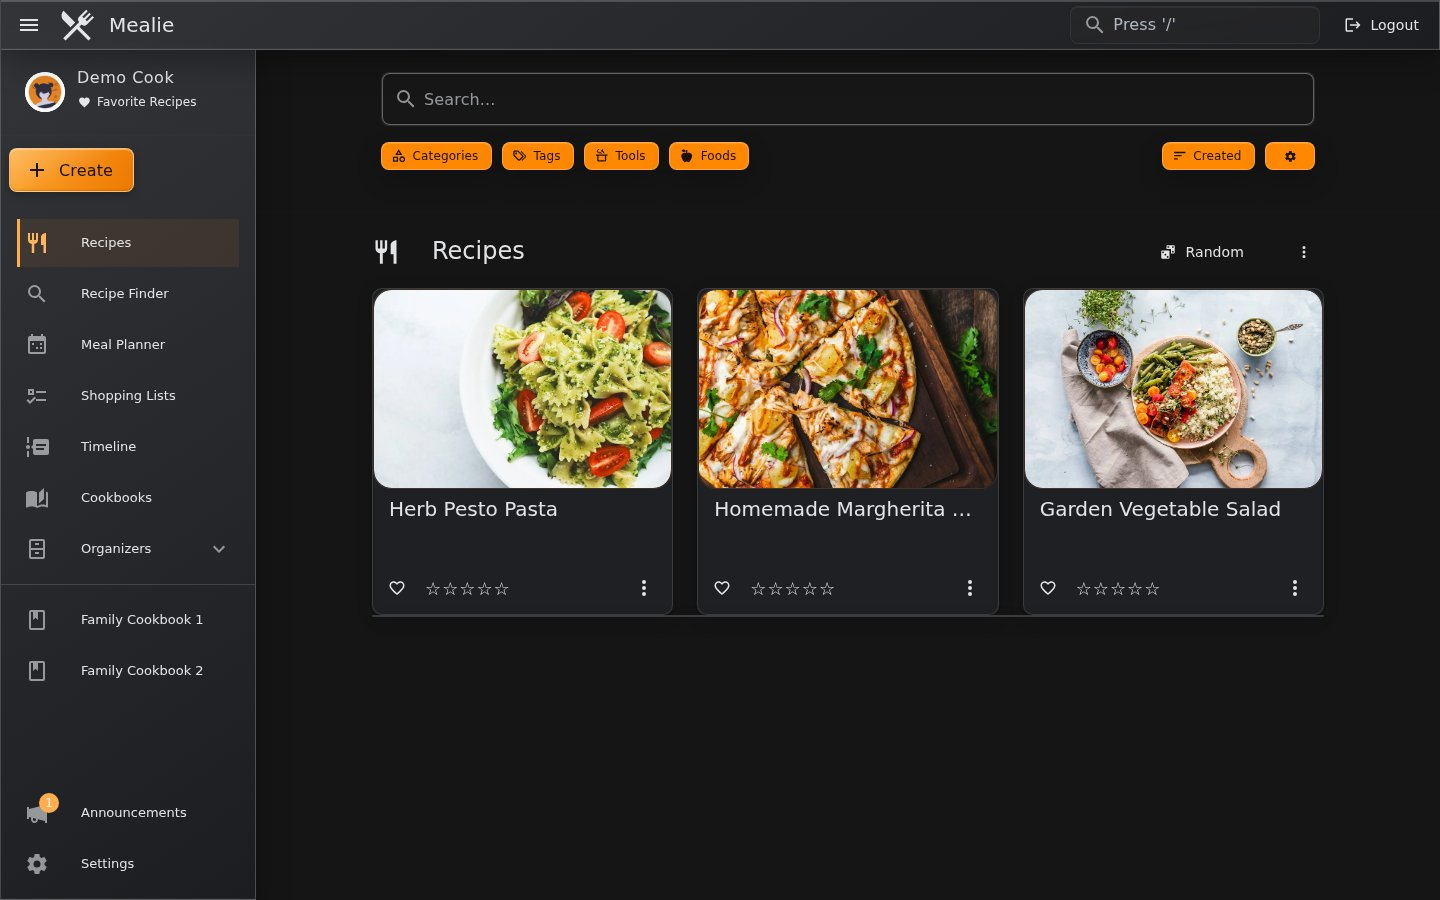
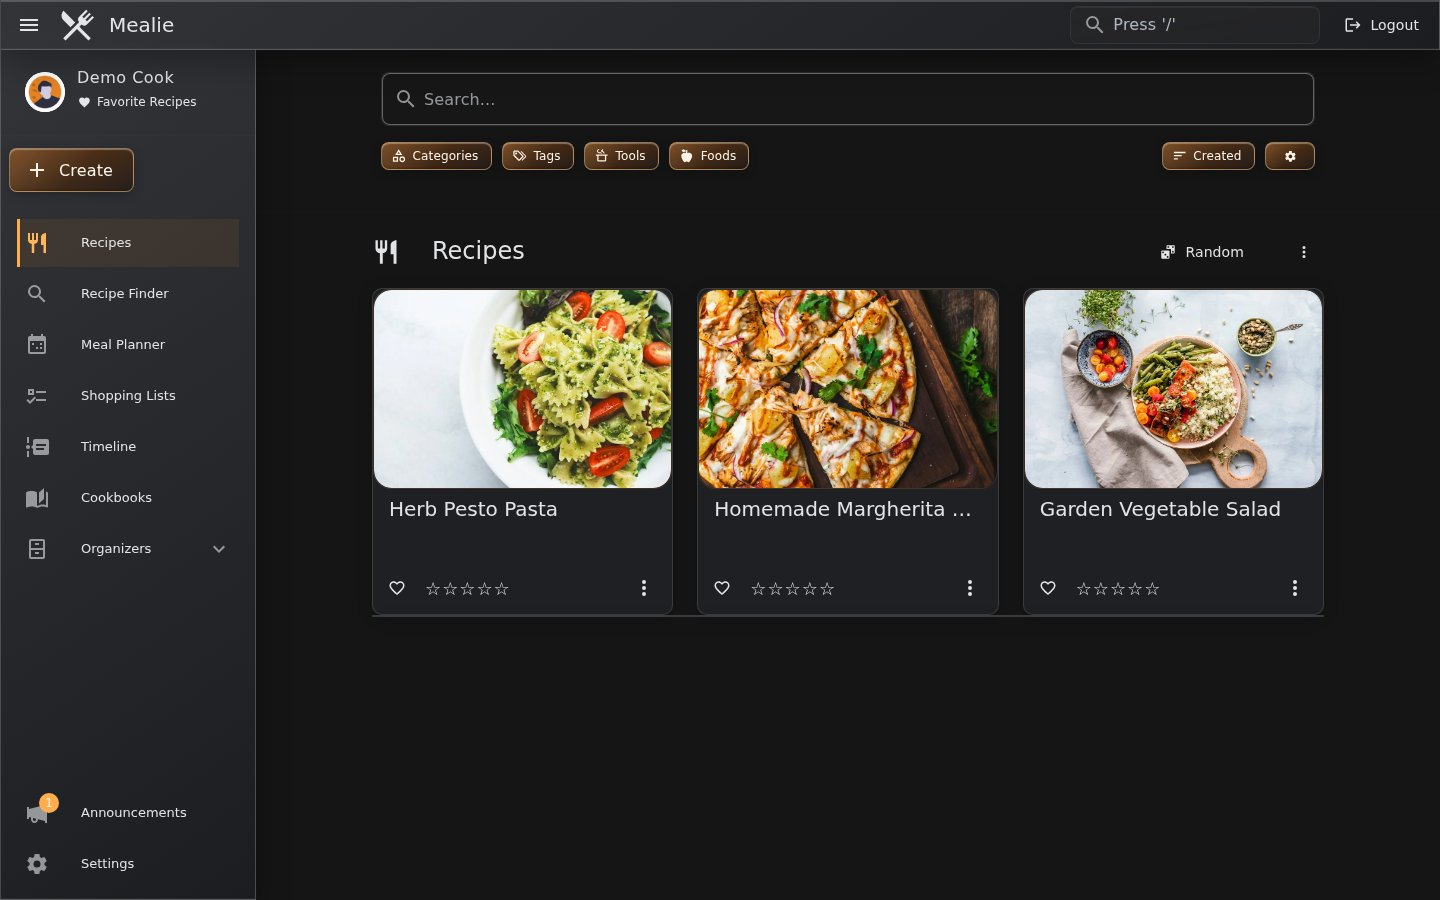
Unify glass button treatments
- Match create, filter, finder and planner controls with amber glass
- Pair cook mode entry and exit with accessible red glass

diff --git a/liquid-glass.css b/liquid-glass.css
@@ -1821,44 +1821,76 @@ section:has(> .v-card.pb-2 + .v-row > .v-col > .v-card.left-border) > .v-row > .
   backdrop-filter: none !important;
   -webkit-backdrop-filter: none !important;
 }
-/* Glass is reserved for primary actions, not filters, tables, or icon buttons. */
+/* Shared glass material for actions; cook mode uses a red tint. */
 :root {
-  --primary-action-bg: linear-gradient(155deg, rgba(255, 255, 255, 0.25), transparent 55%), linear-gradient(115deg, #ffa630, #ed7900);
-  --primary-action-fg: #1a1108;
-  --primary-action-border: rgba(255, 218, 166, 0.65);
-  --primary-action-shadow: inset 0 1px 1px rgba(255, 255, 255, 0.42), inset 0 -1px 2px rgba(88, 37, 0, 0.22), 0 3px 9px rgba(0, 0, 0, 0.24);
-  --primary-action-pressed-shadow: inset 0 2px 4px rgba(88, 37, 0, 0.25), 0 1px 3px rgba(0, 0, 0, 0.20);
+  --primary-action-bg: #583721;
+  --primary-action-fg: #fff5e8;
+  --primary-action-border: rgba(255, 211, 155, 0.48);
+  --primary-action-blur: none;
+  --cook-action-bg: #5b262a;
+  --cook-action-border: rgba(255, 170, 165, 0.48);
+  --primary-action-shadow: inset 0 1px 1px rgba(255, 255, 255, 0.34), inset 0 -1px 2px rgba(0, 0, 0, 0.24), 0 3px 10px rgba(0, 0, 0, 0.22);
+  --primary-action-pressed-shadow: inset 0 2px 5px rgba(0, 0, 0, 0.30), 0 1px 3px rgba(0, 0, 0, 0.20);
+}
+@supports ((backdrop-filter: blur(1px)) or (-webkit-backdrop-filter: blur(1px))) {
+  :root {
+    --primary-action-bg: linear-gradient(135deg, rgba(255, 220, 175, 0.16), transparent 55%), linear-gradient(155deg, rgba(109, 57, 15, 0.90), rgba(37, 29, 26, 0.90));
+    --primary-action-blur: blur(8px) saturate(130%);
+    --cook-action-bg: linear-gradient(135deg, rgba(255, 205, 195, 0.16), transparent 55%), linear-gradient(155deg, rgba(112, 38, 42, 0.90), rgba(42, 25, 29, 0.90));
+  }
 }
 :is(
   .v-navigation-drawer__content > .v-btn.mt-3,
-  .v-main .v-btn:is(.bg-success, .bg-primary, [type="submit"].text-success, [type="submit"].text-primary):not([aria-haspopup]):not(:is(.v-table *, .v-data-table *, .v-list *, .v-btn-toggle *)),
-  .v-dialog .v-btn[type="submit"]:is(.text-success, .bg-success, .text-primary, .bg-primary),
-  .range-nav .v-btn.range-button
-):not(.v-btn--icon):not(.v-btn--disabled):not(:disabled) {
+  .v-main .v-btn:is(.bg-success, .bg-primary, [type="submit"].text-success, [type="submit"].text-primary):not(.v-btn--icon):not([aria-haspopup]):not(:is(.v-table *, .v-data-table *, .v-list *, .v-btn-toggle *)),
+  .v-main .v-btn.bg-accent:not(:is(.v-table *, .v-data-table *, .v-list *, .v-btn-toggle *, .v-menu *)),
+  .v-main .v-col.d-flex.flex-wrap:is(.justify-start, .justify-end) > .v-btn.bg-primary:not(.v-btn--icon),
+  .v-dialog .v-btn[type="submit"]:is(.text-success, .bg-success, .text-primary, .bg-primary):not(.v-btn--icon),
+  .range-nav .v-btn.range-button,
+  .v-container.px-0 > .v-card.d-print-none > .v-card-text .v-form > section > .d-flex > .v-btn.v-btn--variant-text.text-primary:not(.v-btn--icon),
+  .v-main .v-sheet + .v-sheet + .v-btn.v-btn--icon[style*="position: fixed"]
+):not(.v-btn--disabled):not(:disabled) {
   border: 1px solid var(--primary-action-border) !important;
   border-radius: 8px !important;
   background: var(--primary-action-bg) !important;
   color: var(--primary-action-fg) !important;
   box-shadow: var(--primary-action-shadow) !important;
+  backdrop-filter: var(--primary-action-blur) !important;
+  -webkit-backdrop-filter: var(--primary-action-blur) !important;
   transition: transform 160ms ease, filter 160ms ease, box-shadow 160ms ease;
 }
 :is(
   .v-navigation-drawer__content > .v-btn.mt-3,
-  .v-main .v-btn:is(.bg-success, .bg-primary, [type="submit"].text-success, [type="submit"].text-primary):not([aria-haspopup]):not(:is(.v-table *, .v-data-table *, .v-list *, .v-btn-toggle *)),
-  .v-dialog .v-btn[type="submit"]:is(.text-success, .bg-success, .text-primary, .bg-primary),
-  .range-nav .v-btn.range-button
-):not(.v-btn--icon):not(.v-btn--disabled):not(:disabled) :is(.v-btn__content, .v-icon, svg) {
+  .v-main .v-btn:is(.bg-success, .bg-primary, [type="submit"].text-success, [type="submit"].text-primary):not(.v-btn--icon):not([aria-haspopup]):not(:is(.v-table *, .v-data-table *, .v-list *, .v-btn-toggle *)),
+  .v-main .v-btn.bg-accent:not(:is(.v-table *, .v-data-table *, .v-list *, .v-btn-toggle *, .v-menu *)),
+  .v-main .v-col.d-flex.flex-wrap:is(.justify-start, .justify-end) > .v-btn.bg-primary:not(.v-btn--icon),
+  .v-dialog .v-btn[type="submit"]:is(.text-success, .bg-success, .text-primary, .bg-primary):not(.v-btn--icon),
+  .range-nav .v-btn.range-button,
+  .v-container.px-0 > .v-card.d-print-none > .v-card-text .v-form > section > .d-flex > .v-btn.v-btn--variant-text.text-primary:not(.v-btn--icon),
+  .v-main .v-sheet + .v-sheet + .v-btn.v-btn--icon[style*="position: fixed"]
+):not(.v-btn--disabled):not(:disabled) :is(.v-btn__content, .v-icon, svg) {
   color: var(--primary-action-fg) !important;
   fill: currentColor !important;
 }
 :is(
   .v-navigation-drawer__content > .v-btn.mt-3,
-  .v-main .v-btn:is(.bg-success, .bg-primary, [type="submit"].text-success, [type="submit"].text-primary):not([aria-haspopup]):not(:is(.v-table *, .v-data-table *, .v-list *, .v-btn-toggle *)),
-  .v-dialog .v-btn[type="submit"]:is(.text-success, .bg-success, .text-primary, .bg-primary),
-  .range-nav .v-btn.range-button
-):not(.v-btn--icon):not(.v-btn--disabled):not(:disabled):active {
+  .v-main .v-btn:is(.bg-success, .bg-primary, [type="submit"].text-success, [type="submit"].text-primary):not(.v-btn--icon):not([aria-haspopup]):not(:is(.v-table *, .v-data-table *, .v-list *, .v-btn-toggle *)),
+  .v-main .v-btn.bg-accent:not(:is(.v-table *, .v-data-table *, .v-list *, .v-btn-toggle *, .v-menu *)),
+  .v-main .v-col.d-flex.flex-wrap:is(.justify-start, .justify-end) > .v-btn.bg-primary:not(.v-btn--icon),
+  .v-dialog .v-btn[type="submit"]:is(.text-success, .bg-success, .text-primary, .bg-primary):not(.v-btn--icon),
+  .range-nav .v-btn.range-button,
+  .v-container.px-0 > .v-card.d-print-none > .v-card-text .v-form > section > .d-flex > .v-btn.v-btn--variant-text.text-primary:not(.v-btn--icon),
+  .v-main .v-sheet + .v-sheet + .v-btn.v-btn--icon[style*="position: fixed"]
+):not(.v-btn--disabled):not(:disabled):active {
   transform: translateY(1px) scale(0.99);
   box-shadow: var(--primary-action-pressed-shadow) !important;
+}
+/* Keep entering and exiting cook mode visually paired. */
+:is(
+  .v-container.px-0 > .v-card.d-print-none > .v-card-text .v-form > section > .d-flex > .v-btn.v-btn--variant-text.text-primary:not(.v-btn--icon),
+  .v-main .v-sheet + .v-sheet + .v-btn.v-btn--icon[style*="position: fixed"]
+) {
+  --primary-action-bg: var(--cook-action-bg);
+  --primary-action-border: var(--cook-action-border);
 }
 @media (prefers-reduced-transparency: reduce), (prefers-contrast: more) {
   :root {
@@ -1872,7 +1904,9 @@ section:has(> .v-card.pb-2 + .v-row > .v-col > .v-card.left-border) > .v-row > .
     --functional-glass: #202124;
     --functional-blur: none;
     --functional-edge: rgba(255, 255, 255, 0.35);
-    --primary-action-bg: #ff9a24;
+    --primary-action-bg: #583721;
+    --primary-action-blur: none;
+    --cook-action-bg: #5b262a;
     --primary-action-shadow: none;
     --primary-action-pressed-shadow: none;
   }
@@ -1911,6 +1945,9 @@ section:has(> .v-card.pb-2 + .v-row > .v-col > .v-card.left-border) > .v-row > .
     --functional-edge: CanvasText;
     --functional-shadow: none;
     --primary-action-bg: ButtonFace;
+    --primary-action-blur: none;
+    --cook-action-bg: ButtonFace;
+    --cook-action-border: ButtonText;
     --primary-action-fg: ButtonText;
     --primary-action-border: ButtonText;
     --primary-action-shadow: none;

diff --git a/README.md b/README.md
@@ -21,8 +21,9 @@ view the complete image in Mealie's lightbox.
 Recipe categories, tags, and nutrition use flat sections on desktop and mobile.
 Switches use a simple outlined track; checkboxes use an orange flip-disc
 treatment inspired by Uiverse.io's chase2k25.
-Primary actions use a restrained orange glass highlight; navigation, filters,
-icon buttons, and destructive actions keep their distinct treatments.
+Create, filter, and planner controls share translucent amber glass. Cook mode's
+entry and exit use matching red glass; destructive actions retain their warning
+colors.
 
 ## Screenshots
 
